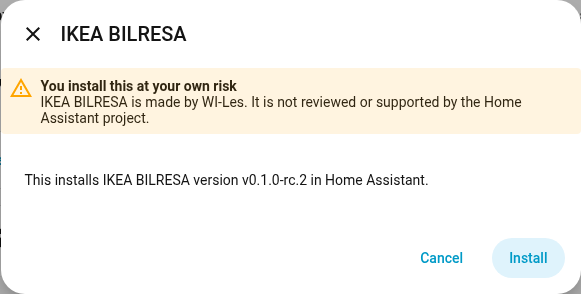
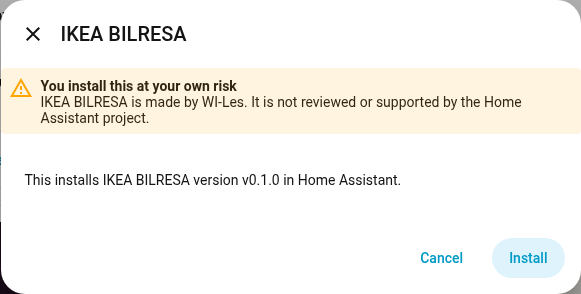
Show the verified stable Marketplace installation

Changed region(s): [[0.4647, 0.5816, 0.7435, 0.6429], [0.0, 0.9184, 0.031, 1.0]]

diff --git a/docs/QUICK-START.md b/docs/QUICK-START.md
@@ -65,7 +65,7 @@ For a local copy of the release, use the
 
    ![Marketplace connection confirmation with the Close button](images/marketplace-quick-start/06-connection-complete.png)
 
-### Choose the release and install
+### Install the stable release
 
 1. In the **Browse** tab, search for **IKEA BILRESA** and select the
    **IKEA BILRESA** result.
@@ -74,8 +74,13 @@ For a local copy of the release, use the
 
 2. Select **Install** on the repository page. Marketplace offers the stable
    release with its default settings.
+
+   ![Marketplace offering stable version v0.1.0 with the Install button](images/marketplace-quick-start/08-install-stable.png)
+
 3. Check that the confirmation dialog shows **v0.1.0** or a newer stable
    version, then select **Install** again.
+
+   ![Marketplace installation confirmation for BILRESA v0.1.0](images/marketplace-quick-start/10-confirm-install.png)
 
 ### Connect to Matter and open the panel
 

diff --git a/PROJECT_STATUS.md b/PROJECT_STATUS.md
@@ -10,6 +10,12 @@ three-light Zigbee2MQTT group in both directions on Home Assistant 2026.11.2. A 
 Chrome test confirmed manual installation, setup recovery and panel loading
 on Home Assistant 2026.11.1 with a simulated Matter device.
 
+On a fresh Home Assistant 2026.11.1 instance, Chrome installed 0.1.0
+through Marketplace with the pre-release setting off. The installed
+integration files matched the release tag. The configuration flow finished,
+the panel loaded at desktop and phone widths, and Home Assistant served both
+bundled icons. The test used simulated GitHub approval and Matter remotes.
+
 On the pilot installation, a physical press and release started and stopped
 a configured colour automation. The automation trace recorded seven light
 commands without errors. A separate BILRESA panel test verified that a media
